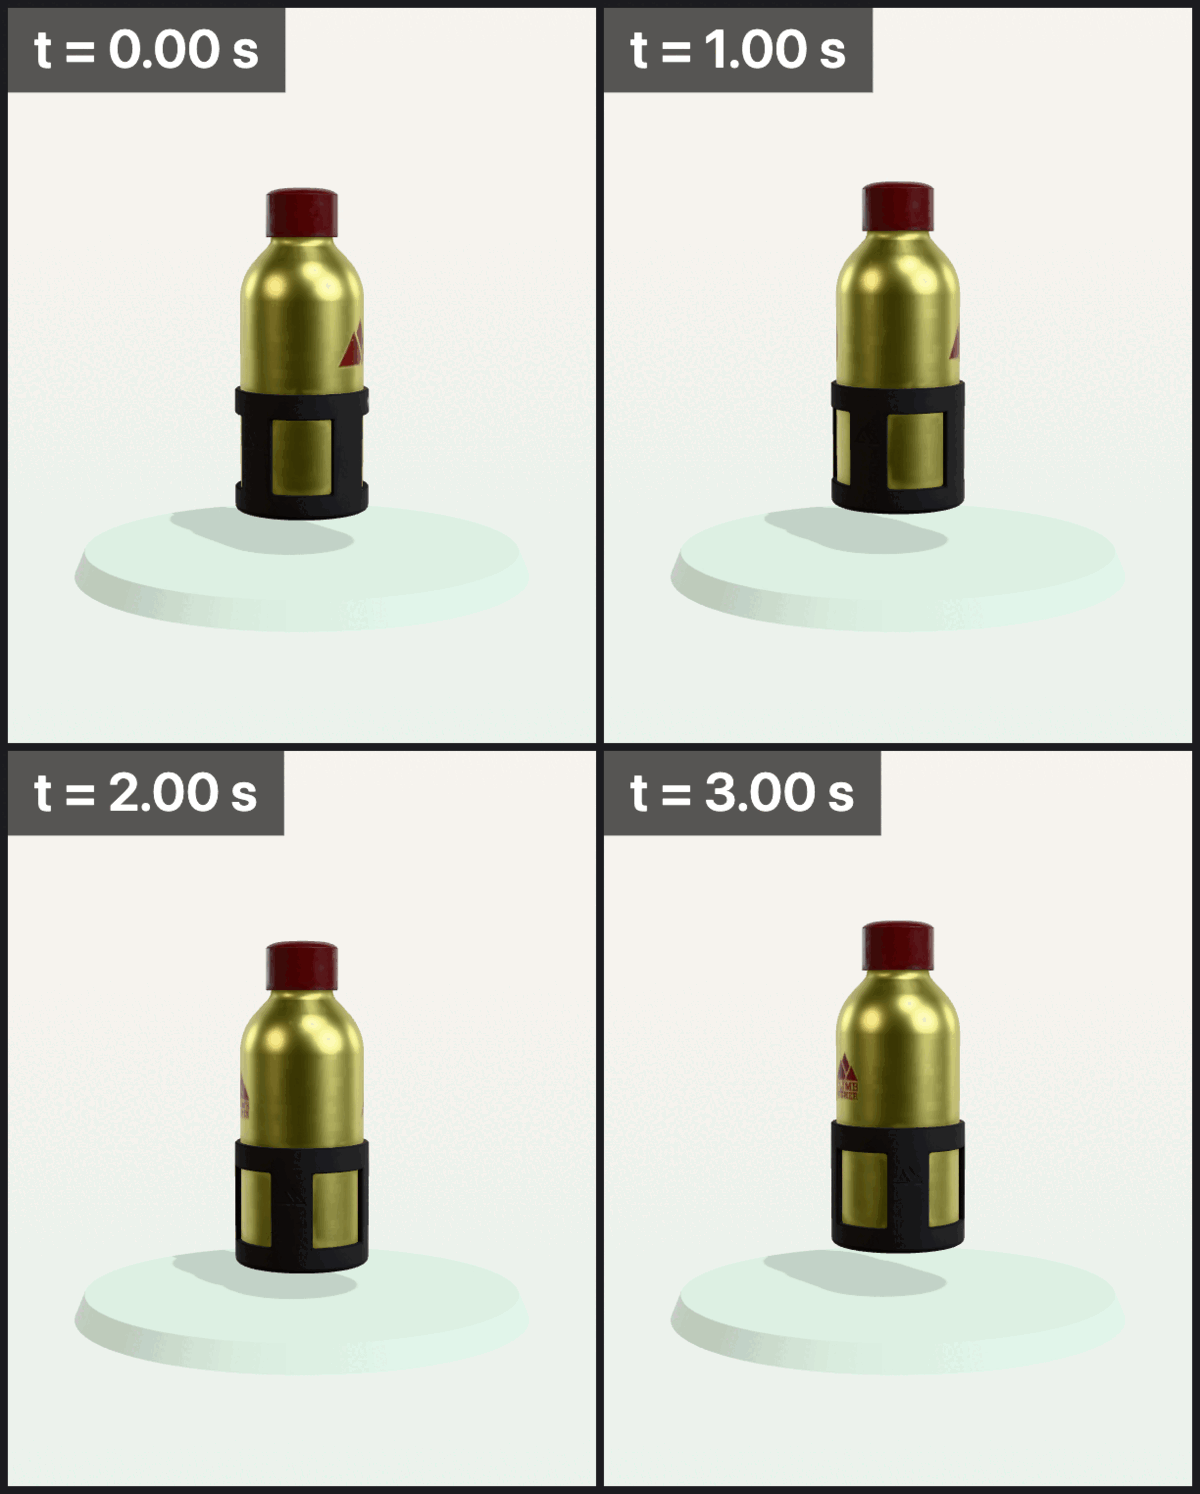
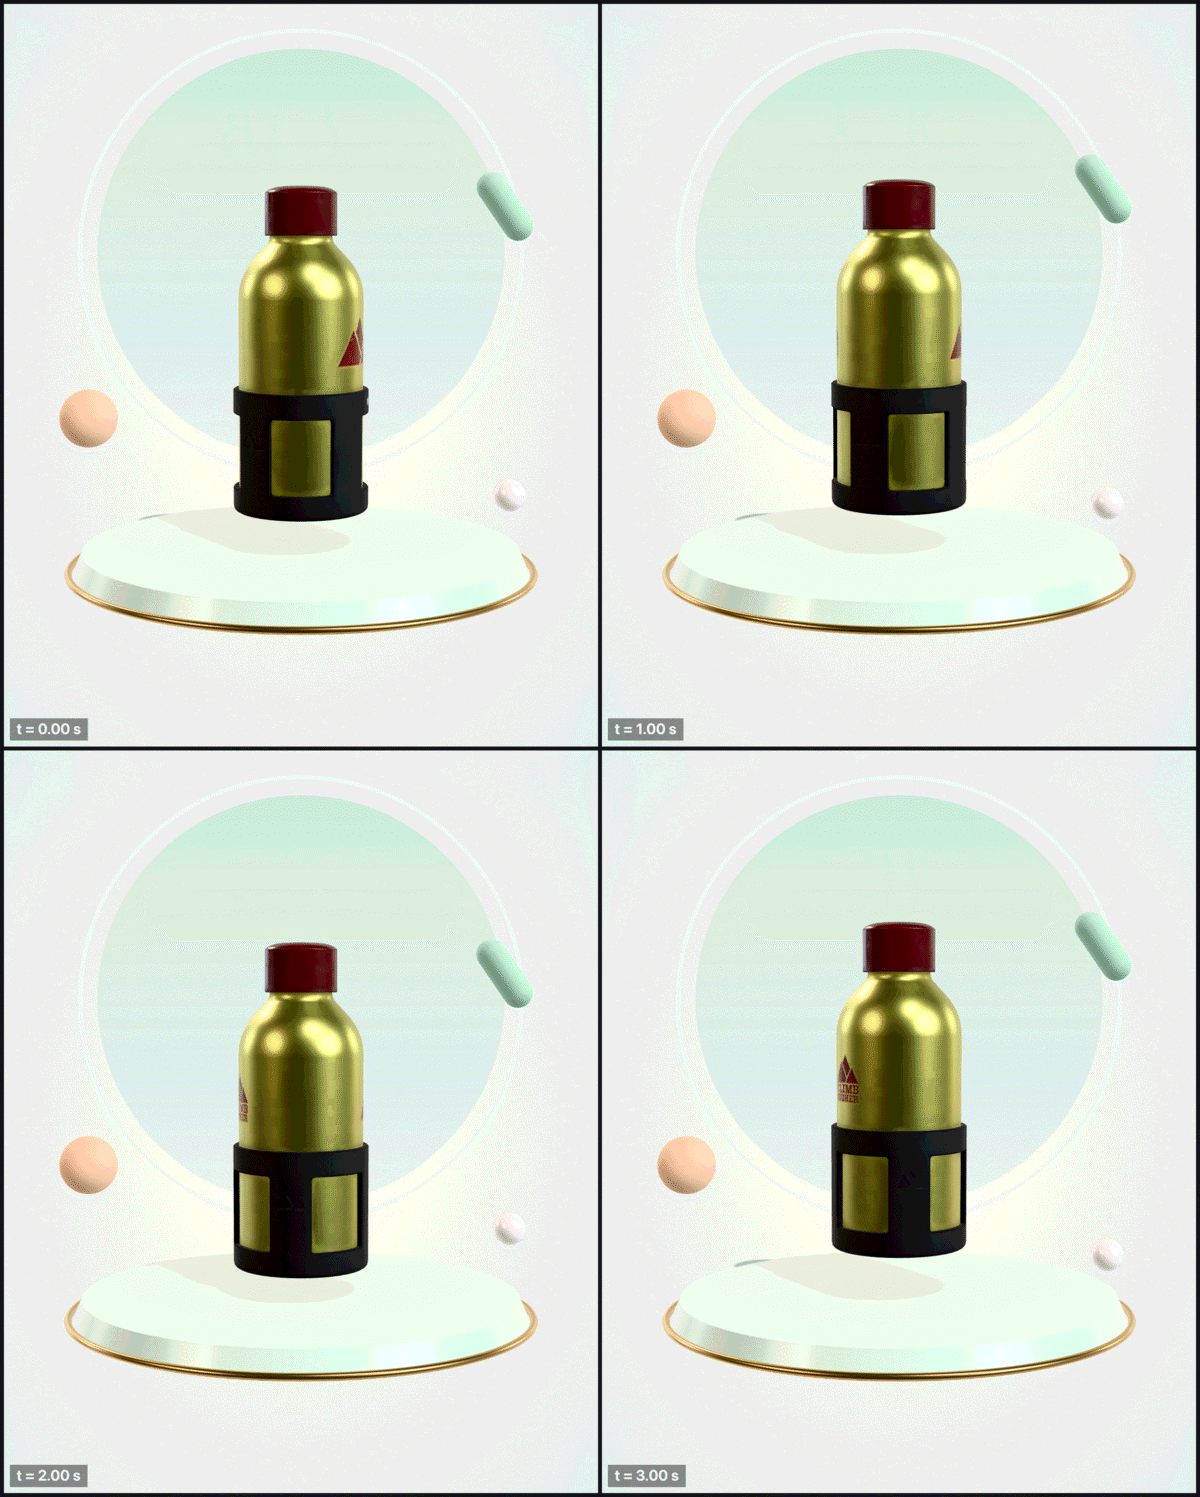
templates: card-hover-3d — gradient backdrop circle + halo, glossy disc with gold trim, floating pebbles, warm rim light, radial background (12 draw calls)

diff --git a/templates/card-hover-3d/README.md b/templates/card-hover-3d/README.md
@@ -1,6 +1,6 @@
 # 3D product card
 
-A 4:5 card for product grids: a realistic PBR water bottle (`library:models/products/water-bottle.glb`) turning slowly above a soft clay disc with a contact shadow, studio HDRI reflections and a pale gradient. On hover the product rig lifts, tilts toward the pointer and grows slightly. The lower third stays calm for an HTML name / price overlay.
+A 4:5 card for product grids: a realistic PBR water bottle (`library:models/products/water-bottle.glb`) turning slowly above a glossy sage disc with a gold base trim and a contact shadow, in front of a soft gradient backdrop circle with a thin halo, three small floating pebbles, studio HDRI reflections, a warm rim light and a pale radial background. On hover the product rig lifts, tilts toward the pointer and grows slightly. The lower third stays calm for an HTML name / price overlay.
 
 ## What to tweak
 
@@ -9,7 +9,8 @@ A 4:5 card for product grids: a realistic PBR water bottle (`library:models/prod
 | Product | `objects#product.src` (any library model or `assets/<file>.glb`), `.fit` (largest dimension ≈ 1.55 for this frame) |
 | Hover feel | `objects#productRig` behaviours: `hoverLift.height` / `.tilt`, `hoverScale.scale` |
 | Idle spin | `objects#product` `rotate.speed` (deg/s; 0 = still) |
-| Card colours | `environment.background.gradient`, `objects#disc.material.color`, shadow tint `environment.ground.color` |
+| Card colours | `environment.background.radial`, `objects#disc.material.color`, `objects#backdrop.material.gradient`, `objects#baseRing` (gold trim), shadow tint `environment.ground.color` |
+| Calmer card | remove `objects#backdrop`, `#halo`, `#pebbleA/B/C` (each is one draw call) |
 | Link the card | add `"href": "/product/123"` to `objects#productRig` |
 
 Tone mapping is `neutral` so brand colours stay accurate. Many cards on one page: keep `target.lazy` (default) so off-screen cards don't render.
